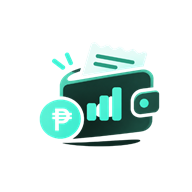
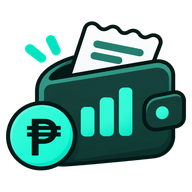
Apply official Expense Tracker branding
Update the official logo and app icons, refine expense filters and comparison colors, and enlarge the PIN screen logo.\n\nCo-authored-by: Copilot <223556219+Copilot@users.noreply.github.com>

diff --git a/src/components/ExpenseList.jsx b/src/components/ExpenseList.jsx
@@ -71,53 +71,51 @@ export default function ExpenseList({ expenses, categories, onLoadSample, onEdit
       </div>
 
       {expenses.length > 0 && (
-        <div className="mt-3 mb-3 grid gap-2">
-          <div className="grid gap-2 sm:grid-cols-3">
-            <label className="sr-only" htmlFor="expense-search">Search expense notes</label>
-            <input
-              id="expense-search"
-              type="search"
-              value={search}
-              onChange={(event) => {
-                setSearch(event.target.value)
-                setPage(1)
-              }}
-              placeholder="Search notes"
-              className="w-full min-w-0 rounded-md border border-[var(--line)] bg-[var(--panel)] px-2.5 py-2 text-sm focus-visible:outline-2 focus-visible:outline-offset-2 focus-visible:outline-[var(--accent)]"
-            />
-            <label className="sr-only" htmlFor="expense-category-filter">Filter by category</label>
-            <select
-              id="expense-category-filter"
-              value={activeCategory}
-              onChange={(event) => {
-                setCategory(event.target.value)
-                setPage(1)
-              }}
-              className="min-w-0 rounded-md border border-[var(--line)] bg-[var(--panel)] px-2.5 py-2 text-sm focus-visible:outline-2 focus-visible:outline-offset-2 focus-visible:outline-[var(--accent)]"
-            >
-              <option value="">All categories</option>
-              {categories.map((item) => (
-                <option key={item.name} value={item.name}>{item.name}</option>
-              ))}
-            </select>
-            <label className="sr-only" htmlFor="expense-sort">Sort expenses</label>
-            <select
-              id="expense-sort"
-              value={sortOrder}
-              onChange={(event) => {
-                setSortOrder(event.target.value)
-                setPage(1)
-              }}
-              className="min-w-0 rounded-md border border-[var(--line)] bg-[var(--panel)] px-2.5 py-2 text-sm focus-visible:outline-2 focus-visible:outline-offset-2 focus-visible:outline-[var(--accent)]"
-            >
-              <option value="newest">Newest first</option>
-              <option value="oldest">Oldest first</option>
-              <option value="amount-high">Amount: high to low</option>
-              <option value="amount-low">Amount: low to high</option>
-              <option value="category">Category: A to Z</option>
-            </select>
-          </div>
-          <details className="rounded-md border border-[var(--line)] bg-[var(--panel)] px-3 py-2">
+        <div className="mt-3 mb-3 grid grid-cols-2 gap-2 sm:grid-cols-3">
+          <label className="sr-only" htmlFor="expense-search">Search expense notes</label>
+          <input
+            id="expense-search"
+            type="search"
+            value={search}
+            onChange={(event) => {
+              setSearch(event.target.value)
+              setPage(1)
+            }}
+            placeholder="Search notes"
+            className="w-full min-w-0 rounded-md border border-[var(--line)] bg-[var(--panel)] px-2.5 py-2 text-sm focus-visible:outline-2 focus-visible:outline-offset-2 focus-visible:outline-[var(--accent)]"
+          />
+          <label className="sr-only" htmlFor="expense-category-filter">Filter by category</label>
+          <select
+            id="expense-category-filter"
+            value={activeCategory}
+            onChange={(event) => {
+              setCategory(event.target.value)
+              setPage(1)
+            }}
+            className="min-w-0 rounded-md border border-[var(--line)] bg-[var(--panel)] px-2.5 py-2 text-sm focus-visible:outline-2 focus-visible:outline-offset-2 focus-visible:outline-[var(--accent)]"
+          >
+            <option value="">All categories</option>
+            {categories.map((item) => (
+              <option key={item.name} value={item.name}>{item.name}</option>
+            ))}
+          </select>
+          <label className="sr-only" htmlFor="expense-sort">Sort expenses</label>
+          <select
+            id="expense-sort"
+            value={sortOrder}
+            onChange={(event) => {
+              setSortOrder(event.target.value)
+              setPage(1)
+            }}
+            className="min-w-0 rounded-md border border-[var(--line)] bg-[var(--panel)] px-2.5 py-2 text-sm focus-visible:outline-2 focus-visible:outline-offset-2 focus-visible:outline-[var(--accent)]"
+          >
+            <option value="newest">Newest first</option>
+            <option value="oldest">Oldest first</option>
+            <option value="amount-high">Amount: high to low</option>
+            <option value="amount-low">Amount: low to high</option>
+            <option value="category">Category: A to Z</option>
+          </select>
+          <details className="min-w-0 rounded-md border border-[var(--line)] bg-[var(--panel)] px-3 py-2 sm:col-span-3">
             <summary className="cursor-pointer text-sm font-medium">More filters</summary>
             <div className="mt-3 grid gap-3 sm:grid-cols-2">
               <div className="grid grid-cols-2 gap-2">
@@ -207,7 +205,7 @@ export default function ExpenseList({ expenses, categories, onLoadSample, onEdit
                 setSortOrder('newest')
                 setPage(1)
               }}
-              className="justify-self-start cursor-pointer text-sm text-[var(--muted)] underline hover:text-[var(--text)]"
+              className="col-span-2 justify-self-start cursor-pointer text-sm text-[var(--muted)] underline hover:text-[var(--text)] sm:col-span-3"
             >
               Clear filters and sorting
             </button>

diff --git a/src/components/PinGate.jsx b/src/components/PinGate.jsx
@@ -122,7 +122,7 @@ export default function PinGate({ children }) {
         <img
           src="/expense-tracker-logo.png"
           alt="Expense Tracker"
-          className="mx-auto h-16 w-auto max-w-full object-contain"
+          className="mx-auto h-20 w-auto max-w-full object-contain"
         />
         <form onSubmit={savePin} className="grid gap-3">
           <h1 className="text-center text-xl font-semibold">Set your app PIN</h1>
@@ -178,7 +178,7 @@ export default function PinGate({ children }) {
         <img
           src="/expense-tracker-logo.png"
           alt="Expense Tracker"
-          className="mx-auto h-16 w-auto max-w-full object-contain"
+          className="mx-auto h-20 w-auto max-w-full object-contain"
         />
         <form onSubmit={unlock} className="grid gap-3">
           <label htmlFor="unlock-pin" className="text-center text-sm text-[var(--muted)]">

diff --git a/src/App.jsx b/src/App.jsx
@@ -171,11 +171,11 @@ function ExpenseTracker({ pinEnabled, onLock, onOpenPinSettings }) {
           {previousTotal !== null && (
             <p
               className={`mt-1 text-sm ${
-                total > previousTotal
+                previousTotal === 0 || total === previousTotal
+                  ? 'text-[var(--muted)]'
+                  : total > previousTotal
                   ? 'text-[var(--danger)]'
-                  : total < previousTotal
-                    ? 'text-[var(--accent)]'
-                    : 'text-[var(--muted)]'
+                  : 'text-[var(--accent)]'
               }`}
             >
               {previousTotal > 0 ? (

diff --git a/index.html b/index.html
@@ -2,7 +2,8 @@
 <html lang="en">
   <head>
     <meta charset="UTF-8" />
-    <link rel="icon" type="image/png" href="/expense-tracker-favicon.png" />
+    <link rel="icon" type="image/png" sizes="512x512" href="/expense-tracker-favicon.png?v=2" />
+    <link rel="apple-touch-icon" sizes="192x192" href="/expense-tracker-icon-192.png?v=2" />
     <link rel="manifest" href="/manifest.webmanifest" />
     <meta name="viewport" content="width=device-width, initial-scale=1.0" />
     <meta name="theme-color" content="#0e1714" />

diff --git a/vite.config.js b/vite.config.js
@@ -17,8 +17,8 @@ const offlineApp = {
       "/index.html",
       "/manifest.webmanifest",
       "/expense-tracker-logo.png",
-      "/expense-tracker-favicon.png",
-      "/expense-tracker-icon-192.png",
+      "/expense-tracker-favicon.png?v=2",
+      "/expense-tracker-icon-192.png?v=2",
       ...appFiles.map((fileName) => `/${fileName}`),
     ];
     const version = appFiles.map((fileName) => fileName.replace(/[^\w-]/g, "_")).join("_");
